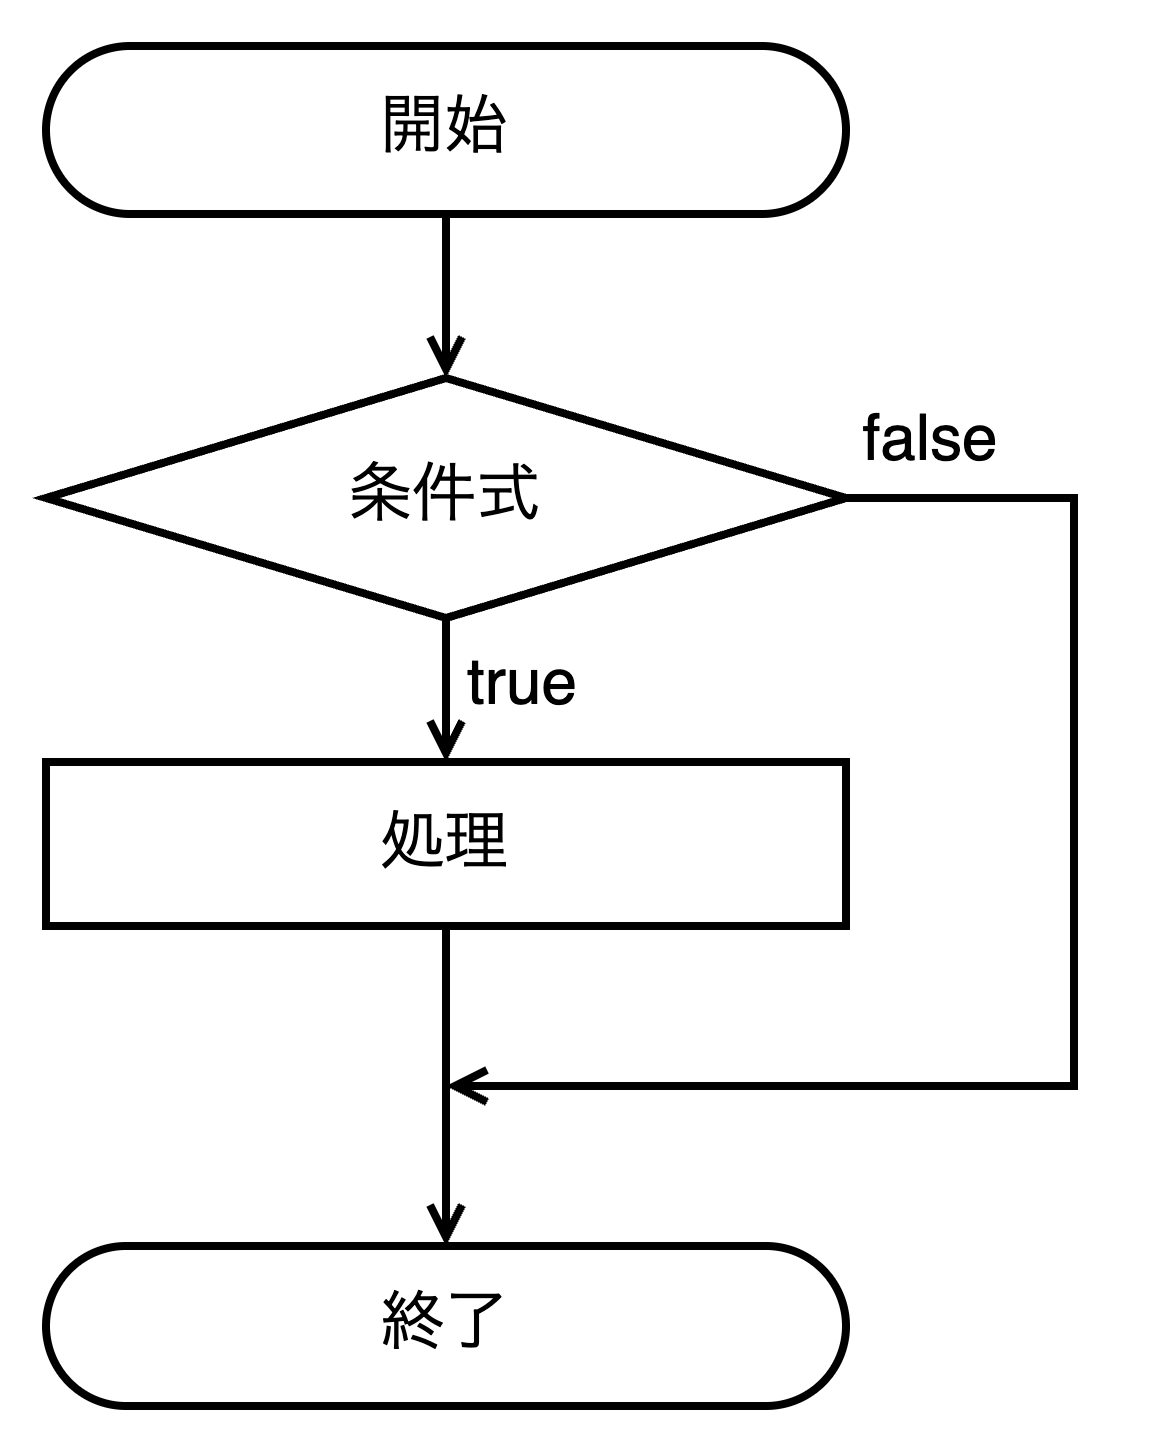
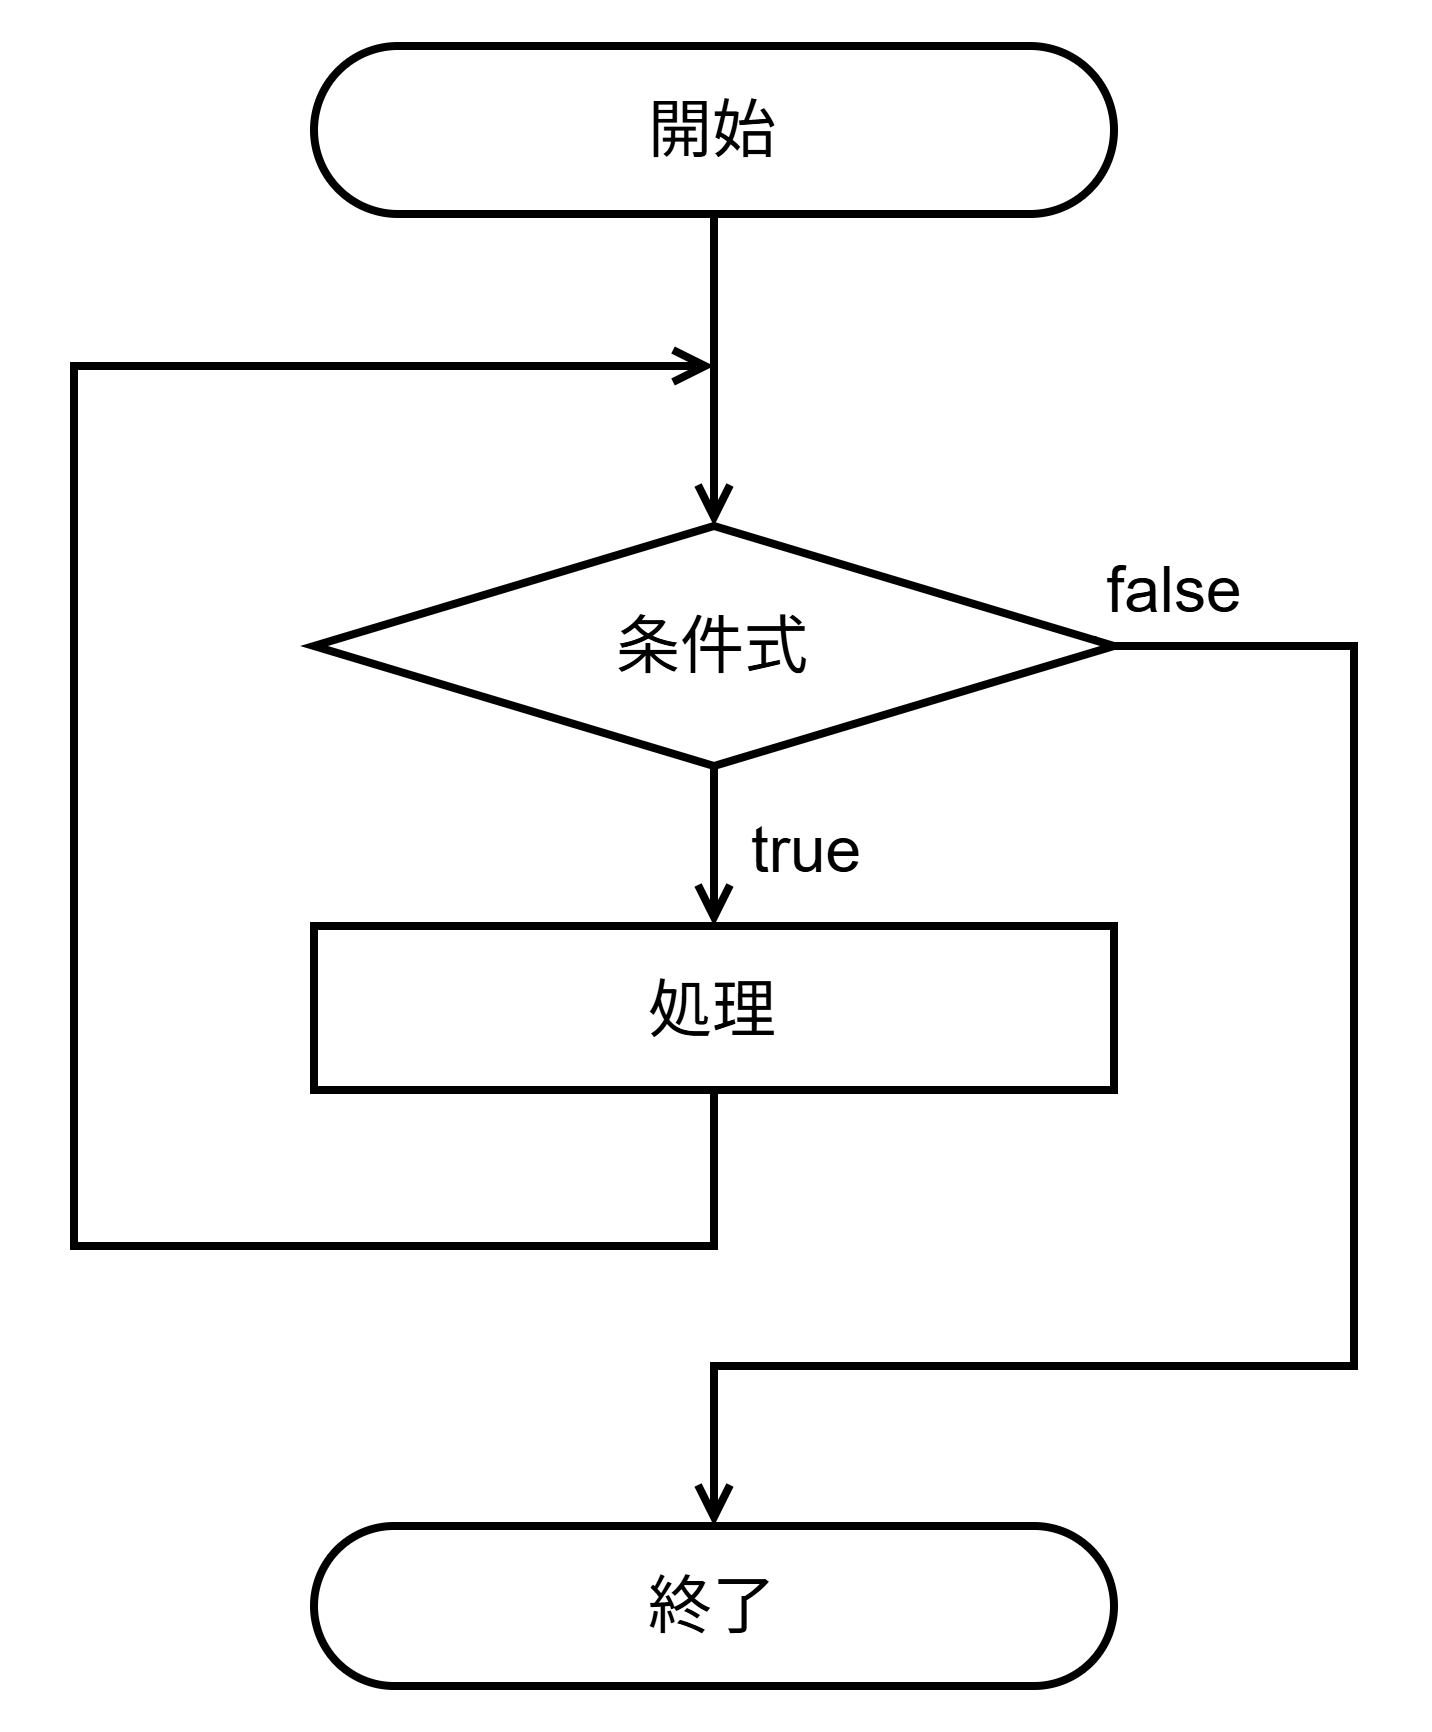
GITBOOK-24: Updated loop flow

Changed region(s): [[0.0312, 0.0, 0.9688, 0.9945], [0.1875, 0.2797, 0.3125, 0.3108], [0.0312, 0.8702, 0.0625, 0.9634]]

diff --git a/algorithm/day-01/06-conditional.md b/algorithm/day-01/06-conditional.md
@@ -17,7 +17,7 @@
 
 ### 6.2 if 文の基本構造
 
-<div align="left"><figure><img src="../../.gitbook/assets/image (1).png" alt="" width="375"><figcaption></figcaption></figure></div>
+<div align="left"><figure><img src="../../.gitbook/assets/image (1) (1).png" alt="" width="375"><figcaption></figcaption></figure></div>
 
 Pythonでは `if` 文を使って条件分岐を実装します。
 
@@ -66,7 +66,7 @@ xは正の数です
 
 条件が満たされない場合に別の処理を行いたい場合は、`if-else` 構文を使用します。
 
-<div align="left"><figure><img src="../../.gitbook/assets/image (2).png" alt="" width="563"><figcaption></figcaption></figure></div>
+<div align="left"><figure><img src="../../.gitbook/assets/image (2) (1).png" alt="" width="563"><figcaption></figcaption></figure></div>
 
 <pre><code># 基本構文
 if 条件式:

diff --git a/algorithm/day-02/08-loop.md b/algorithm/day-02/08-loop.md
@@ -36,6 +36,8 @@ for i in range(5):
 
 ### 8.2 for ループの基本構造
 
+<div align="left"><figure><img src="../../.gitbook/assets/image (1).png" alt="" width="375"><figcaption></figcaption></figure></div>
+
 `for` ループは、指定した範囲や集合の各要素に対して、一定の処理を繰り返し実行するための構造です。
 
 ```python
